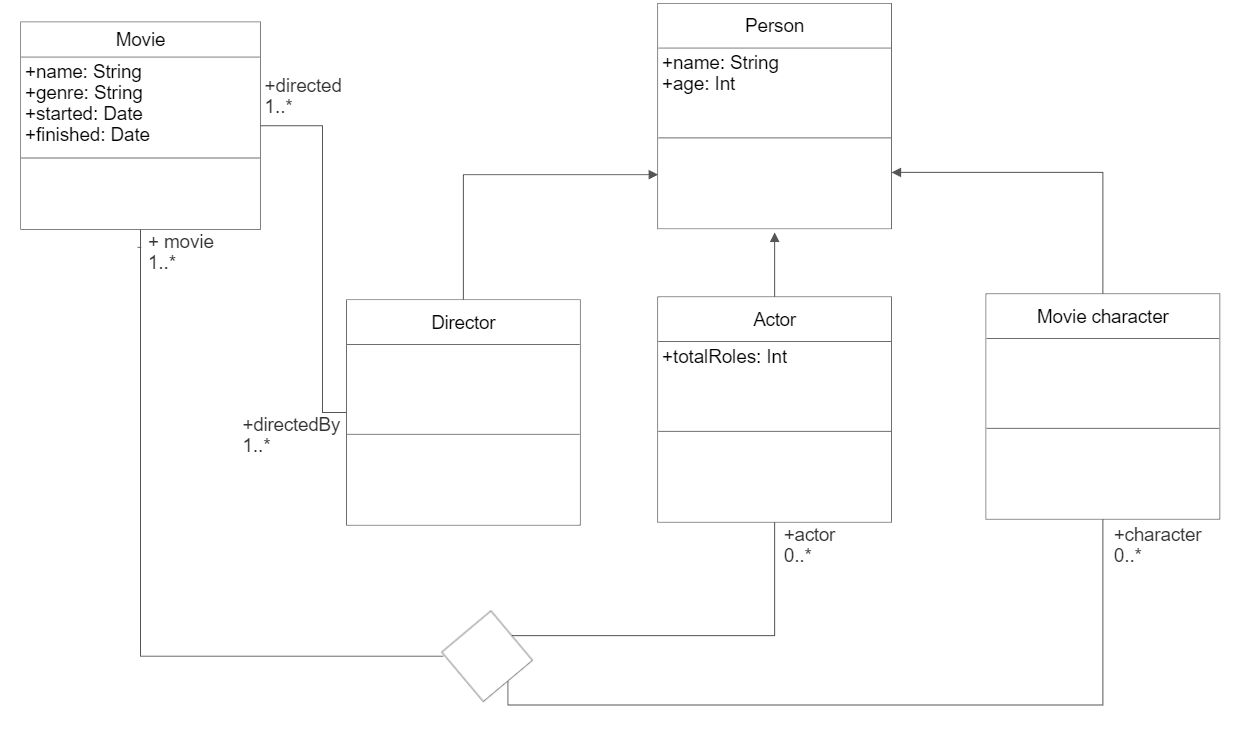
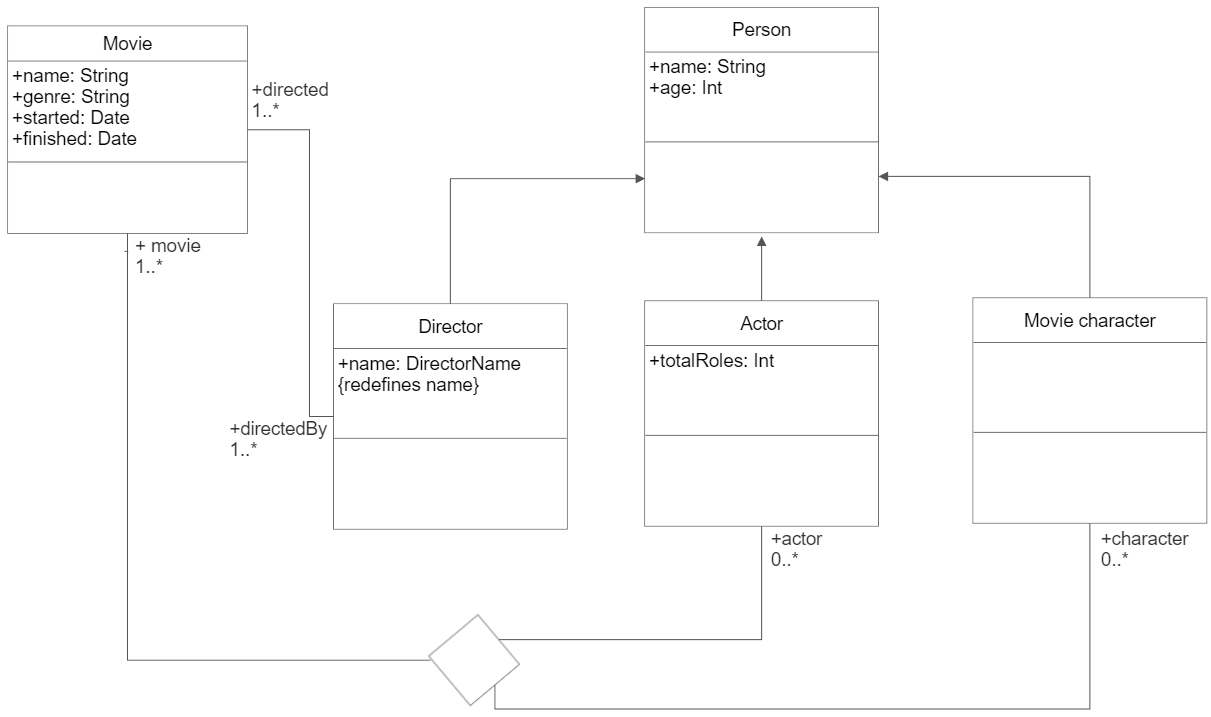
Files updated

diff --git a/03-UML/README.md b/03-UML/README.md
@@ -10,8 +10,8 @@ I) Ternární vztah
 II) Specializace/generalizace
 - z generické třídy Person dědí třídy Director, Actor a Movie character
 
-III) Redefinice/restrikce
-- třída Actor dědí z třídy osoba a v rámci redefinice zavádí novou property `totalRoles` = celkový počet rolí, ve kterých daný herec hrál
+III) Redefinice/restrikce property
+- ve třídě Director property `name : DirectorName` redefinuje property `name : String` ve třídě Person
 
 # OCL
 
@@ -30,5 +30,5 @@ inv: self.age >= 0
 III) Filmy každého režíséra mají neprázdný název
 ```
 context Director
-self.directed->forall(m | m.name != "")
+inv: self.directed->forall(m | m.name != "")
 ```
